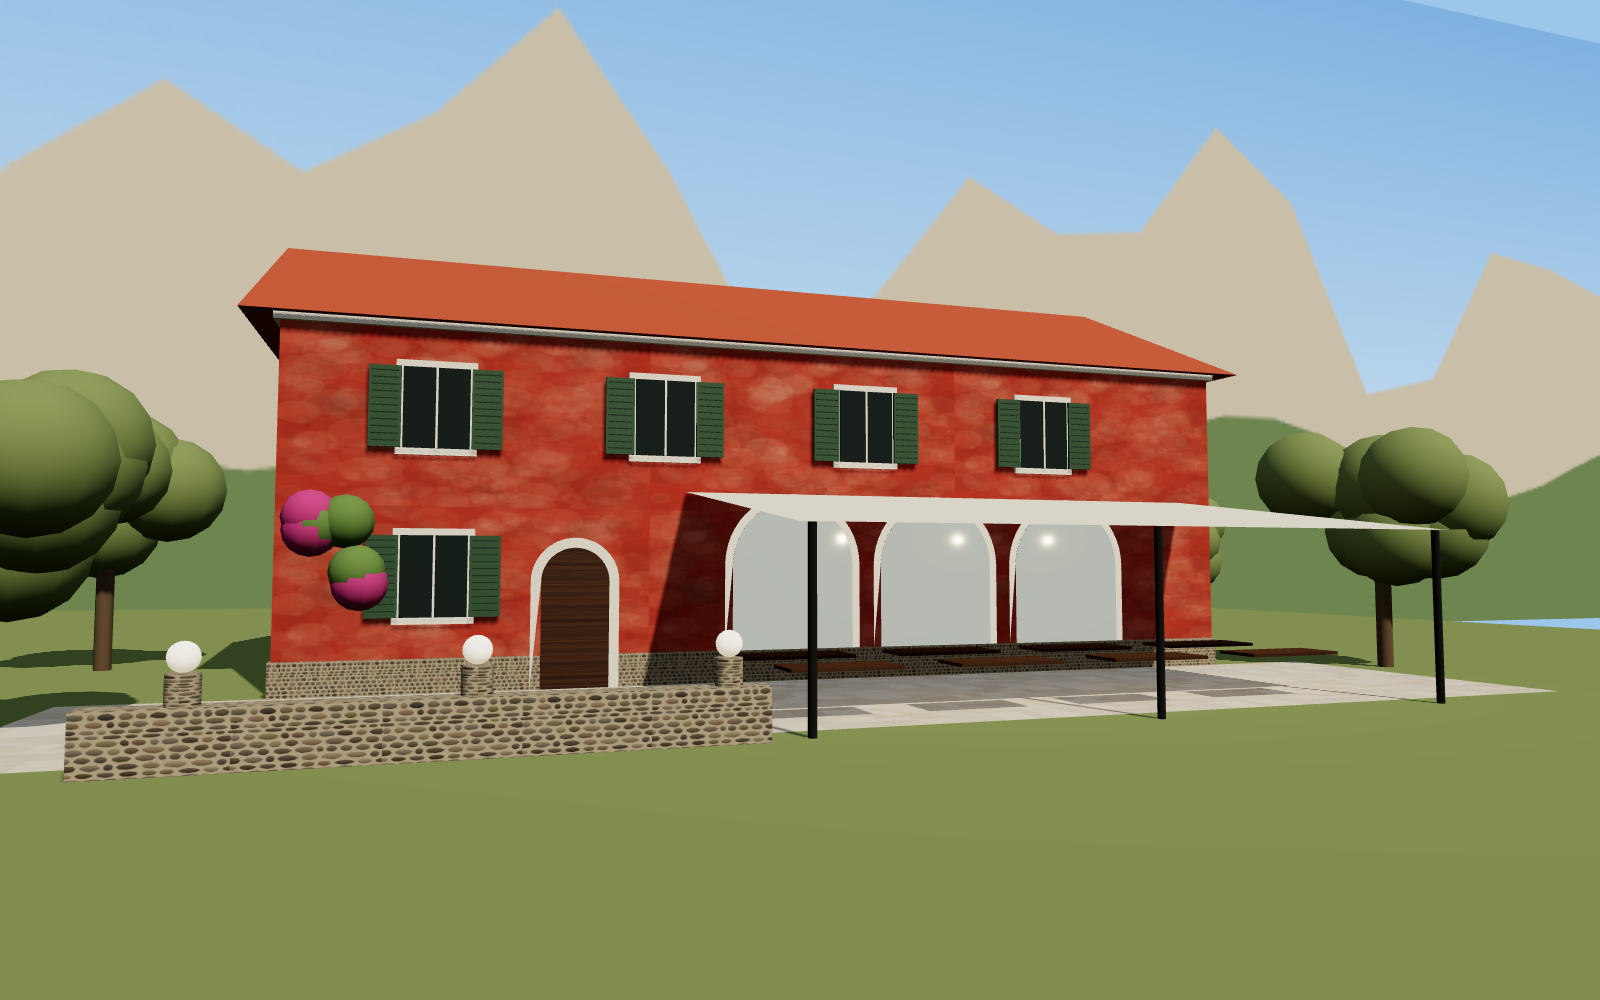
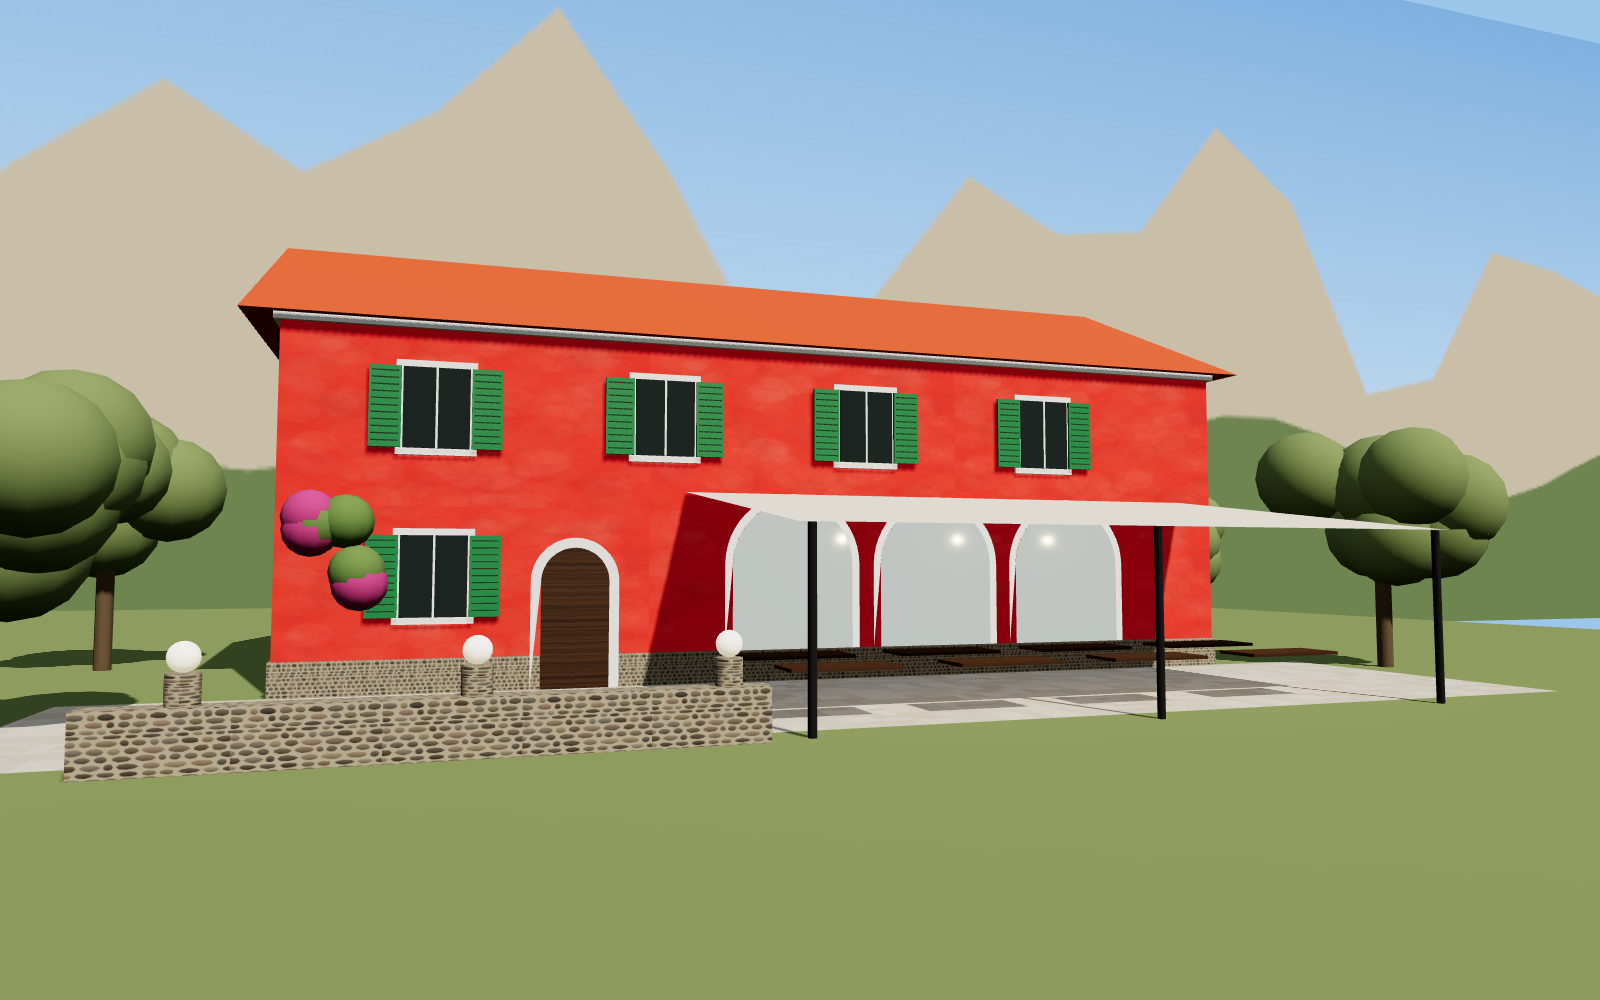
Colori facciata più vivaci: giallo, rosso Portofino, arancio, rosa Camogli
Claude-Session: https://claude.ai/code/session_01QZXxqty357DcebAAL5Vpaf

Changed region(s): [[0.1562, 0.248, 0.7812, 0.682]]

diff --git a/render-3d/esterno-colori/sorgente/esterno.js b/render-3d/esterno-colori/sorgente/esterno.js
@@ -343,9 +343,9 @@ function roundTable(x, z, r, h, m) { cyl(x, z, r, h - 0.05, h, m, 40); cyl(x, z,
 
 // ================================================================ EXTERIOR – Ligurian facade colours
 const HS = 3.2;
-const COL = { giallo: '#e2b33f', rosso: '#b8442d', arancio: '#d9733a' }[VIEW.split('-')[1] || 'giallo'];
-const facade = T(rep(cv(256, 256, (g, w, h) => { g.fillStyle = COL; g.fillRect(0, 0, w, h); for (let i = 0; i < 900; i++) { g.fillStyle = `rgba(${rnd() > 0.5 ? '255,255,255' : '80,40,20'},${rnd() * 0.06})`; g.beginPath(); g.arc(rnd() * w, rnd() * h, 2 + rnd() * 18, 0, 7); g.fill(); } }), 3, 2), { roughness: 0.95 });
-const trim = M('#f6f1e6', { roughness: 0.8 }), shut = M('#3f5f48', { roughness: 0.6 }), roofM = M('#b5563c', { roughness: 0.85 });
+const COL = { giallo: '#ffc21a', rosso: '#e0352a', arancio: '#ff7a1f', rosa: '#f08a8a' }[VIEW.split('-')[1] || 'giallo'];
+const facade = T(rep(cv(256, 256, (g, w, h) => { g.fillStyle = COL; g.fillRect(0, 0, w, h); for (let i = 0; i < 900; i++) { g.fillStyle = `rgba(${rnd() > 0.5 ? '255,255,255' : '80,40,20'},${rnd() * 0.03})`; g.beginPath(); g.arc(rnd() * w, rnd() * h, 2 + rnd() * 18, 0, 7); g.fill(); } }), 3, 2), { roughness: 0.95, emissive: COL, emissiveIntensity: 0.12 });
+const trim = M('#ffffff', { roughness: 0.7 }), shut = M('#2e8a4e', { roughness: 0.5 }), roofM = M('#d2552f', { roughness: 0.8 });
 // ground + garden
 { const g = new THREE.Mesh(new THREE.PlaneGeometry(80, 80), M('#7e8f58', { roughness: 1 })); g.rotation.x = -Math.PI / 2; g.receiveShadow = true; scene.add(g);
   const p = new THREE.Mesh(new THREE.PlaneGeometry(24, 6), T(texOpus, { roughness: 0.8 })); texOpus.repeat.set(6, 1.5); p.rotation.x = -Math.PI / 2; p.position.set(9, 0.01, 13.5); p.receiveShadow = true; scene.add(p); }
@@ -386,7 +386,7 @@ wallPlane('S', 9, -30, 220, -2, 45, new THREE.MeshBasicMaterial({ toneMapped: fa
   g.fillStyle = '#6f8550'; g.beginPath(); g.moveTo(0, h); for (let x = 0; x <= w; x += 20) g.lineTo(x, h * (0.75 + 0.06 * Math.sin(x / 31))); g.lineTo(w, h); g.fill(); }) }));
 scene.background = new THREE.Color('#9cc6ea');
 scene.add(new THREE.HemisphereLight('#eaf4ff', '#6b6a4a', 0.9));
-const sun = new THREE.DirectionalLight('#fff1d8', 2.6); sun.position.set(14, 20, 26); sun.target.position.set(9, 0, 6); scene.add(sun.target);
+const sun = new THREE.DirectionalLight('#fff6e6', 3.2); sun.position.set(14, 20, 26); sun.target.position.set(9, 0, 6); scene.add(sun.target);
 sun.castShadow = true; sun.shadow.mapSize.set(2048, 2048); Object.assign(sun.shadow.camera, { left: -25, right: 25, top: 25, bottom: -25, near: 1, far: 90 }); sun.shadow.bias = -0.0005; scene.add(sun);
 const camera = new THREE.PerspectiveCamera(50, W / H, 0.1, 300);
 if (VIEW.startsWith('alto')) { camera.position.set(-10, 22, 34); camera.lookAt(9, 2, 6); } else { camera.position.set(2.5, 2.2, 30); camera.lookAt(10, 3.6, 8); }

diff --git a/README.md b/README.md
@@ -21,7 +21,7 @@ Same Ligurian ground floor as v12, but lighter and more modern: no stone at all 
 | ![Modern room](render-3d/camere-piano-superiore/1-camera-moderna-letto-a-scomparsa.png) | ![Painted Italian room](render-3d/camere-piano-superiore/2-camera-italiana-dipinta-letto.png) |
 | ![Dresser, mirror, blue cabinet](render-3d/camere-piano-superiore/3-camera-italiana-comò-specchio-vetrina.png) | ![From above](render-3d/camere-piano-superiore/4-camere-dall-alto.png) |
 
-**Outside:** three Ligurian facade colours with white frames and green shutters.
+**Outside:** four bright Ligurian facade colours (yellow, Portofino red, bright orange, Camogli pink) with white frames and bright green shutters.
 
 ![Facade colours](render-3d/esterno-colori/0-confronto-colori.png)
 
